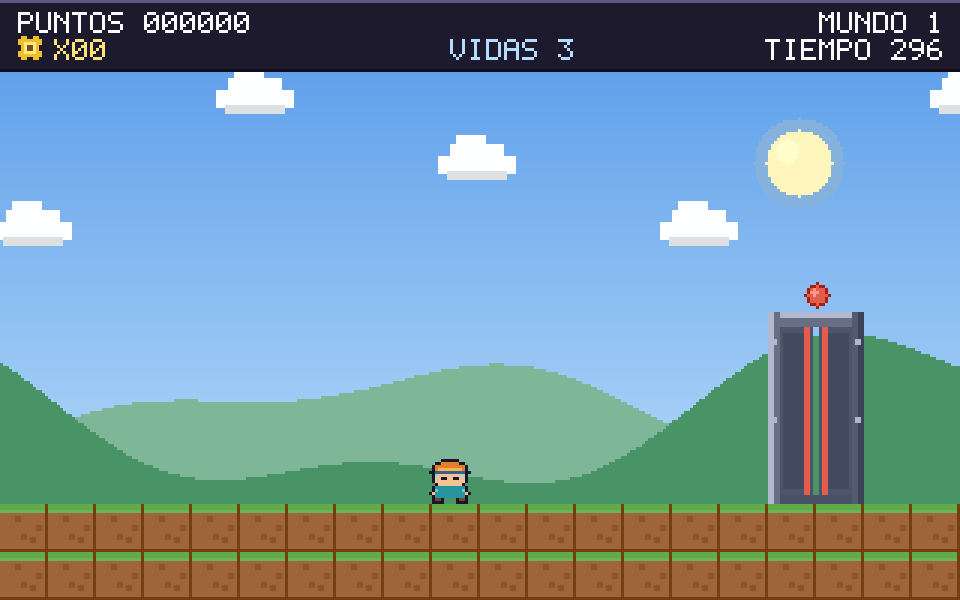
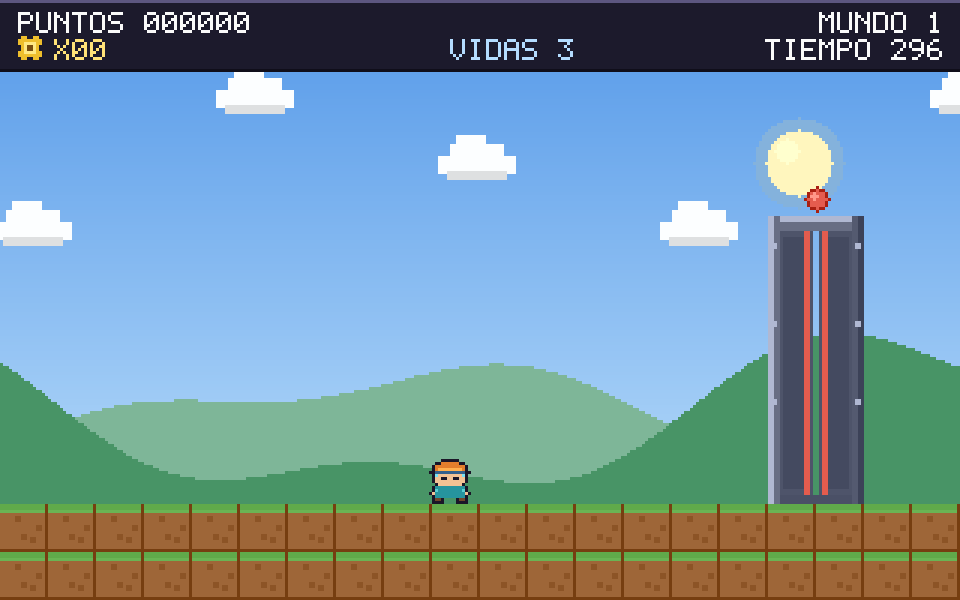
Amplia el juego a diez mundos con cuatro temas nuevos
Suma los mundos de bosque, volcan, hielo y espacio, cada uno con su paleta y su
cielo. Agrega cinco piezas de nivel (cajas, pasillo, plataformas altas, puas y
columnas) y recompone los niveles con ellas. La compuerta de salida pasa a seis
bloques de alto y se activa al rozarla, para que no se pueda saltar. Actualiza
la version a 1.1.0, la documentacion, las capturas y las notas del release.

Changed region(s): [[0.7812, 0.3, 0.9062, 0.57]]

diff --git a/docs/ARQUITECTURA.md b/docs/ARQUITECTURA.md
@@ -16,7 +16,7 @@ El programa se divide en siete units y un `.dpr`. Cada unit tiene una responsabi
 | `GMSuperficie.pas` | Superficie de píxeles de 32 bits, primitivas de dibujo, fuente 5x7 y exportación BMP | `TSuperficie` |
 | `GMVentana.pas` | Ventana Win32, DIB section, lectura de teclado y reloj de fotogramas | `TVentana`, `TPulsos` |
 | `GMSprites.pas` | Paleta, sprites por mapas de caracteres y tiles generados | `TPaleta`, `TTiles`, `TSpritesHeroe`, `TSpritesEnemigos`, `TSpritesObjetos` |
-| `GMNiveles.pas` | Temas visuales, piezas de mapa y ensamblado de los seis niveles | `TTema`, `TNivel`, `CrearNivel` |
+| `GMNiveles.pas` | Temas visuales, piezas de mapa y ensamblado de los diez niveles | `TTema`, `TNivel`, `CrearNivel` |
 | `GMSonido.pas` | Sintetizador de música y efectos sobre waveOut | `TSonido`, `TMezclador`, `THiloAudio` |
 | `GMJuego.pas` | Estados, física, colisiones, cámara, marcador y dibujo | `TJuego`, `TEntidad`, `TParticula` |
 | `SaltaMundos.dpr` | Punto de entrada, selección de modo y códigos de salida | `Principal` |
@@ -74,7 +74,7 @@ Estados de `TJuego` y sus transiciones:
 | `ejMuere` | Contacto con enemigo sin escudo, caída o tiempo agotado | 96 fotogramas después: resta vida y reinicia el nivel o pasa a `ejGameOver` |
 | `ejFinNivel` | Tocar la compuerta de salida | 130 fotogramas después: siguiente nivel o `ejVictoria` |
 | `ejGameOver` | Última vida perdida | Enter tras 40 fotogramas: título |
-| `ejVictoria` | Terminar el nivel 6 | Enter tras 40 fotogramas: título |
+| `ejVictoria` | Terminar el nivel 10 | Enter tras 40 fotogramas: título |
 
 La tabla describe las transiciones programadas en `TJuego.Actualizar`; en el bucle interactivo actual las que dependen de un flanco de teclado no llegan a dispararse por la lectura duplicada descrita en el párrafo anterior.
 
@@ -205,11 +205,11 @@ Leyenda de caracteres:
 | `s` | Púa giratoria | No |
 | `f` | Mosca voladora | No |
 | `M` | Posición inicial del héroe | No |
-| `E` | Compuerta de salida (dos columnas, cuatro filas) | No |
+| `E` | Compuerta de salida (dos columnas, seis filas) | No |
 
 `EsSolido` reconoce `=`, `B`, `?`, `U`, `#`, `[` y `]`. Fuera del mapa, `TNivel.Caracter` devuelve `'='` por debajo de la última fila y `' '` por arriba o a los costados; el motor de juego, en cambio, trata los costados como sólidos en `SolidoEn` para que nadie salga del escenario.
 
-Hay trece piezas con nombre (`inicio`, `piso`, `piso_monedas`, `hueco`, `hueco_bricks`, `bloques`, `escalera`, `columna`, `columna_alta`, `plataformas`, `enemigos`, `bicho_pua`, `final`) y una pieza adicional, `mosca`, que se agrega con `AgregarPorNombre` sin estar en la tabla. Cada nivel encadena entre 14 y 17 piezas:
+Hay dieciocho piezas con nombre (`inicio`, `piso`, `piso_monedas`, `hueco`, `hueco_bricks`, `bloques`, `escalera`, `columna`, `columna_alta`, `plataformas`, `enemigos`, `bicho_pua`, `final`, `cajas`, `pasillo`, `plataformas_altas`, `puas`, `columnas`) y una pieza adicional, `mosca`, que se agrega con `AgregarPorNombre` sin estar en la tabla. Cada nivel encadena entre 14 y 17 piezas:
 
 | Nivel | Tema | Piezas | Columnas | Ancho en píxeles |
 | --- | --- | --- | --- | --- |
@@ -219,6 +219,10 @@ Hay trece piezas con nombre (`inicio`, `piso`, `piso_monedas`, `hueco`, `hueco_b
 | 4 | Cueva | 14 | 224 | 3584 |
 | 5 | Desierto | 15 | 240 | 3840 |
 | 6 | Fábrica | 17 | 272 | 4352 |
+| 7 | Bosque | 14 | 224 | 3584 |
+| 8 | Volcán | 16 | 256 | 4096 |
+| 9 | Hielo | 16 | 256 | 4096 |
+| 10 | Espacio | 17 | 272 | 4352 |
 
 Temas visuales de `TemaDeNivel`:
 
@@ -230,6 +234,10 @@ Temas visuales de `TemaDeNivel`:
 | 4 | Cueva | `#12101C` a `#2E283A` | Sí |
 | 5 | Desierto | `#F4C46C` a `#FCEEC4` | No |
 | 6 | Fábrica | `#1E222E` a `#4A5266` | No |
+| 7 | Bosque | `#589478` a `#BAD6B2` | No |
+| 8 | Volcán | `#3E181C` a `#BA4E2C` | No |
+| 9 | Hielo | `#76A8DC` a `#E2F4FF` | No |
+| 10 | Espacio | `#0A0A1A` a `#301E4C` | Sí |
 
 Al cargar un nivel, `CargarNivel` copia las filas a `FMapa`, reconstruye los tiles, borra entidades y llama a `SembrarEntidades`, que convierte las `g`, `s` y `f` en objetos `TEntidad` y borra esos caracteres del mapa. La `M` se usa para colocar al héroe en `columna * 16 + 2` y `fila * 16 + 1`, y también se borra. La `c` y la `E` permanecen como tiles y se dibujan o se consultan en cada fotograma.
 
@@ -329,15 +337,15 @@ La autoprueba se ejecuta con `--autoprueba` o `--selftest`. El `.dpr` crea `TJue
 
 `AutoPrueba` activa `FSimulacion` y alimenta el motor con `DarPulsos`, que sustituye la lectura real del teclado por un `TPulsos` armado a mano. Cada comprobación se declara con `Comprobar(Condicion, Descripcion)`, donde `Condicion` es la condición de error: si es verdadera, se agrega una línea `FALLA: ...` a la lista. Los pasos son:
 
-1. Estructura de los seis niveles: ancho de al menos 100 columnas, exactamente una `M` y exactamente una `E` por nivel.
+1. Estructura de los diez niveles: ancho de al menos 100 columnas, exactamente una `M` y exactamente una `E` por nivel.
 2. Física en reposo: 40 fotogramas sin entrada deben dejar al héroe sobre el suelo, y 30 fotogramas más no deben moverlo más de 1,5 píxeles.
 3. Salto: con salto pulsado, la altura máxima debe quedar entre 24 y 80 píxeles y el héroe debe volver al suelo con un margen de 2 píxeles.
 4. Pared: se construye un muro de cuatro columnas por tres filas, se corre a la derecha 90 fotogramas y el héroe no debe atravesarlo ni quedarse sin avanzar.
 5. Partida automática: 2400 fotogramas corriendo a la derecha y saltando cinco de cada treinta deben recoger al menos una tuerca y avanzar más de 96 píxeles.
-6. Dibujo: se cargan los seis niveles, se simulan tres fotogramas en cada uno y se llama a `Dibujar` sin ventana.
+6. Dibujo: se cargan los diez niveles, se simulan tres fotogramas en cada uno y se llama a `Dibujar` sin ventana.
 7. Fin de nivel: se coloca al héroe junto a la compuerta, se comprueba que el estado pasa a `ejFinNivel`, que las hojas se abren y que tras 140 fotogramas el juego avanza al mundo 2.
 8. Muerte: se deja caer al héroe fuera del mapa, se comprueba que entra en `ejMuere` y que tras 130 fotogramas pierde una vida y reanuda la partida.
-9. Recorrido: un bot corre a la derecha y salta ante paredes, huecos y enemigos; con los enemigos desactivados debe llegar a la compuerta en los seis mundos, lo que demuestra que ninguna pared ni ningún hueco impide avanzar.
+9. Recorrido: un bot corre a la derecha y salta ante paredes, huecos y enemigos; con los enemigos desactivados debe llegar a la compuerta en los diez mundos, lo que demuestra que ninguna pared ni ningún hueco impide avanzar.
 10. Entrada por flanco: pulsando salto un solo fotograma, el héroe debe despegar del suelo; pulsando avance, su velocidad horizontal debe dejar de ser cero.
 
 El paso 1 mide el ancho en tiles (`Nivel.Ancho`), no en píxeles. El paso 5 no exige terminar el nivel: comprueba que el bucle de juego, la recogida de tuercas y el avance funcionan juntos. El paso 6 no tiene aserciones; su valor es que cualquier excepción de dibujo hace fallar la ejecución. El paso 9 usa `FMortalInactivo` para desactivar el daño de los enemigos, de modo que mide la geometría del nivel y no la puntería del bot.

diff --git a/README.md b/README.md
@@ -1,14 +1,14 @@
 # Salta Mundos
 
-Juego de plataformas 2D de seis niveles, escrito en Object Pascal (modo Delphi) y compilado con Free Pascal para Windows de 64 bits.
+Juego de plataformas 2D de diez niveles, escrito en Object Pascal (modo Delphi) y compilado con Free Pascal para Windows de 64 bits.
 
-Versión 1.0.0 · 16 de noviembre de 2026
+Versión 1.1.0 · 22 de noviembre de 2026
 
 ![Pantalla de título de Salta Mundos](docs/capturas/titulo.png)
 
 ## Qué es
 
-Salta Mundos es un juego de plataformas de desplazamiento lateral que se recorre de principio a fin en seis niveles, cada uno con un tema visual propio: pradera, atardecer, noche, cueva, desierto y fábrica. En cada nivel hay que alcanzar la compuerta de salida antes de que se agote el tiempo, recogiendo tuercas doradas y esquivando o pisando enemigos.
+Salta Mundos es un juego de plataformas de desplazamiento lateral que se recorre de principio a fin en diez niveles, cada uno con un tema visual propio: pradera, atardecer, noche, cueva, desierto, fábrica, bosque, volcán, hielo y espacio. En cada nivel hay que alcanzar la compuerta de salida antes de que se agote el tiempo, recogiendo tuercas doradas y esquivando o pisando enemigos.
 
 Todo el juego se dibuja a 320x200 píxeles y se escala a la ventana con un múltiplo entero, sin filtros, para conservar el aspecto de pixel art. No se carga ningún archivo de imagen, sonido o mapa: los sprites y los tiles se generan por código, la música y los efectos se sintetizan en tiempo real y los niveles están descritos dentro del ejecutable.
 
@@ -22,7 +22,7 @@ El marcador rotula MUNDO a cada nivel; en este documento se usa «nivel» para r
 - Sprites y tiles generados por código, sin archivos de imagen.
 - Música y efectos sintetizados con waveOut a 22050 Hz, mono y 16 bits.
 - Sin archivos de datos externos: gráficos, sonido y niveles viajan dentro del ejecutable.
-- Seis niveles con paletas, cielos, colinas y decorados propios.
+- Diez niveles con paletas, cielos, colinas y decorados propios.
 - Salto de altura variable, tiempo de coyote y buffer de salto para un control preciso.
 - Autoprueba integrada que se ejecuta sin abrir ventana.
 - Compilación reproducible con Free Pascal y publicación automática desde GitHub Actions.
@@ -50,7 +50,7 @@ Las teclas de letras se leen por código de tecla, no por carácter, así que fu
 - Los ladrillos solo se rompen golpeándolos desde abajo con escudo.
 - Las cajas con sorpresa se abren desde abajo: entregan tuercas y, cada cuatro cajas golpeadas sin llevar escudo, entregan un escudo.
 - Se pierde una vida al tocar un enemigo sin escudo, al caer al vacío o al agotar el tiempo.
-- El nivel termina al tocar la compuerta de salida: las dos hojas se abren y el juego pasa al mundo siguiente. Tras el sexto nivel aparece la pantalla de victoria.
+- El nivel termina al tocar la compuerta de salida: las dos hojas se abren y el juego pasa al mundo siguiente. Tras el décimo nivel aparece la pantalla de victoria.
 
 ## Enemigos
 
@@ -124,7 +124,7 @@ salta-mundos/
 │   ├── GMSuperficie.pas       superficie de píxeles, fuente y exportación BMP
 │   ├── GMVentana.pas          ventana Win32, entrada y presentación
 │   ├── GMSprites.pas          paleta, sprites y tiles generados
-│   ├── GMNiveles.pas          temas y piezas de los seis niveles
+│   ├── GMNiveles.pas          temas y piezas de los diez niveles
 │   ├── GMSonido.pas           sintetizador sobre waveOut
 │   ├── GMJuego.pas            estados, física, colisiones y dibujo
 │   └── SaltaMundos.dpr        programa principal y opciones de consola
@@ -142,7 +142,7 @@ La captura de portada se publica en `docs/capturas/titulo.png`; la carpeta se cr
 
 ## Pruebas
 
-La autoprueba interna valida la estructura de los seis niveles (ancho mínimo, un único punto de inicio y una única compuerta de salida), la física en reposo y en salto, las colisiones contra paredes, una partida automática de 2400 fotogramas, el dibujo de los seis niveles sin ventana, el final de nivel con su paso al mundo siguiente, la muerte con descuento de vida y un recorrido completo con un bot que comprueba que ningún hueco ni pared impide terminar cada mundo. Cada comprobación recibe la condición de error y el resultado se escribe en `salta-mundos.log`, junto al ejecutable, y en la salida estándar.
+La autoprueba interna valida la estructura de los diez niveles (ancho mínimo, un único punto de inicio y una única compuerta de salida), la física en reposo y en salto, las colisiones contra paredes, una partida automática de 2400 fotogramas, el dibujo de los seis niveles sin ventana, el final de nivel con su paso al mundo siguiente, la muerte con descuento de vida y un recorrido completo con un bot que comprueba que ningún hueco ni pared impide terminar cada uno de los diez mundos. Cada comprobación recibe la condición de error y el resultado se escribe en `salta-mundos.log`, junto al ejecutable, y en la salida estándar.
 
 ```
 build\SaltaMundos.exe --autoprueba

diff --git a/docs/NOTAS-VERSION.md b/docs/NOTAS-VERSION.md
@@ -1,31 +1,36 @@
-# Salta Mundos 1.0.0
+# Salta Mundos 1.1.0
 
-Primera version publica del juego, lista para jugar en Windows de 64 bits.
+Segunda entrega del juego: cuatro mundos nuevos, piezas de nivel adicionales y
+una compuerta de salida más clara, lista para jugar en Windows de 64 bits.
 
-## Que incluye el zip
+## Qué incluye el zip
 
 - `SaltaMundos.exe`: el juego completo, sin instalador ni dependencias.
-- `LEEME.txt`: controles, reglas y como compilar el codigo.
+- `LEEME.txt`: controles, reglas y cómo compilar el código.
 - `LICENCIA.txt`: licencia MIT.
 
-## Novedades
+## Novedades de esta versión
 
-- Seis mundos con ambientacion propia: pradera, atardecer, noche, cueva,
-  desierto y fabrica.
-- Heroe con salto de altura variable, tiempo de coyote y buffer de salto para
-  que el control responda con precision.
-- Tres tipos de enemigo: bicho caminante, pua giratoria y mosca voladora.
-- Tuercas doradas como moneda, escudo que protege un golpe y permite romper
-  ladrillos, cajas con sorpresa y compuerta de salida que se abre al tocarla.
-- Musica y efectos de sonido sintetizados en tiempo real con waveOut.
-- Marcador con puntos, tuercas, vidas, mundo y tiempo.
+- Cuatro mundos nuevos con tema propio: bosque, volcán, hielo y espacio. El
+  juego pasa de seis a diez niveles.
+- Cinco piezas de nivel nuevas: fila de cajas, pasillo con techo de ladrillos,
+  plataformas altas, pareja de púas y pareja de columnas.
+- La compuerta de salida ahora mide seis bloques de alto, no se puede saltar y
+  se activa al rozarla en cualquier punto de su superficie.
+
+## Correcciones
+
+- Las cajas con sorpresa ya se abren al golpearlas desde abajo; antes el
+  cálculo de la fila del bloque fallaba por un píxel.
+- La meta se detecta con toda la caja del héroe en lugar de un solo punto, de
+  modo que no hace falta colocarse en el centro exacto.
 
 ## Notas
 
-- El juego se dibuja a 320x200 y se escala con un multiplo entero, sin filtros,
+- El juego se dibuja a 320x200 y se escala con un múltiplo entero, sin filtros,
   para conservar el aspecto de pixel art.
-- Si el equipo no tiene tarjeta de sonido disponible, el juego arranca en
+- Si el equipo no tiene salida de audio disponible, el juego arranca en
   silencio sin mostrar errores.
 - Para compilar hace falta Free Pascal 3.2.2 o superior; el repositorio incluye
   el script `build.ps1` y el flujo de GitHub Actions que compila y prueba cada
-  version.
+  versión.
